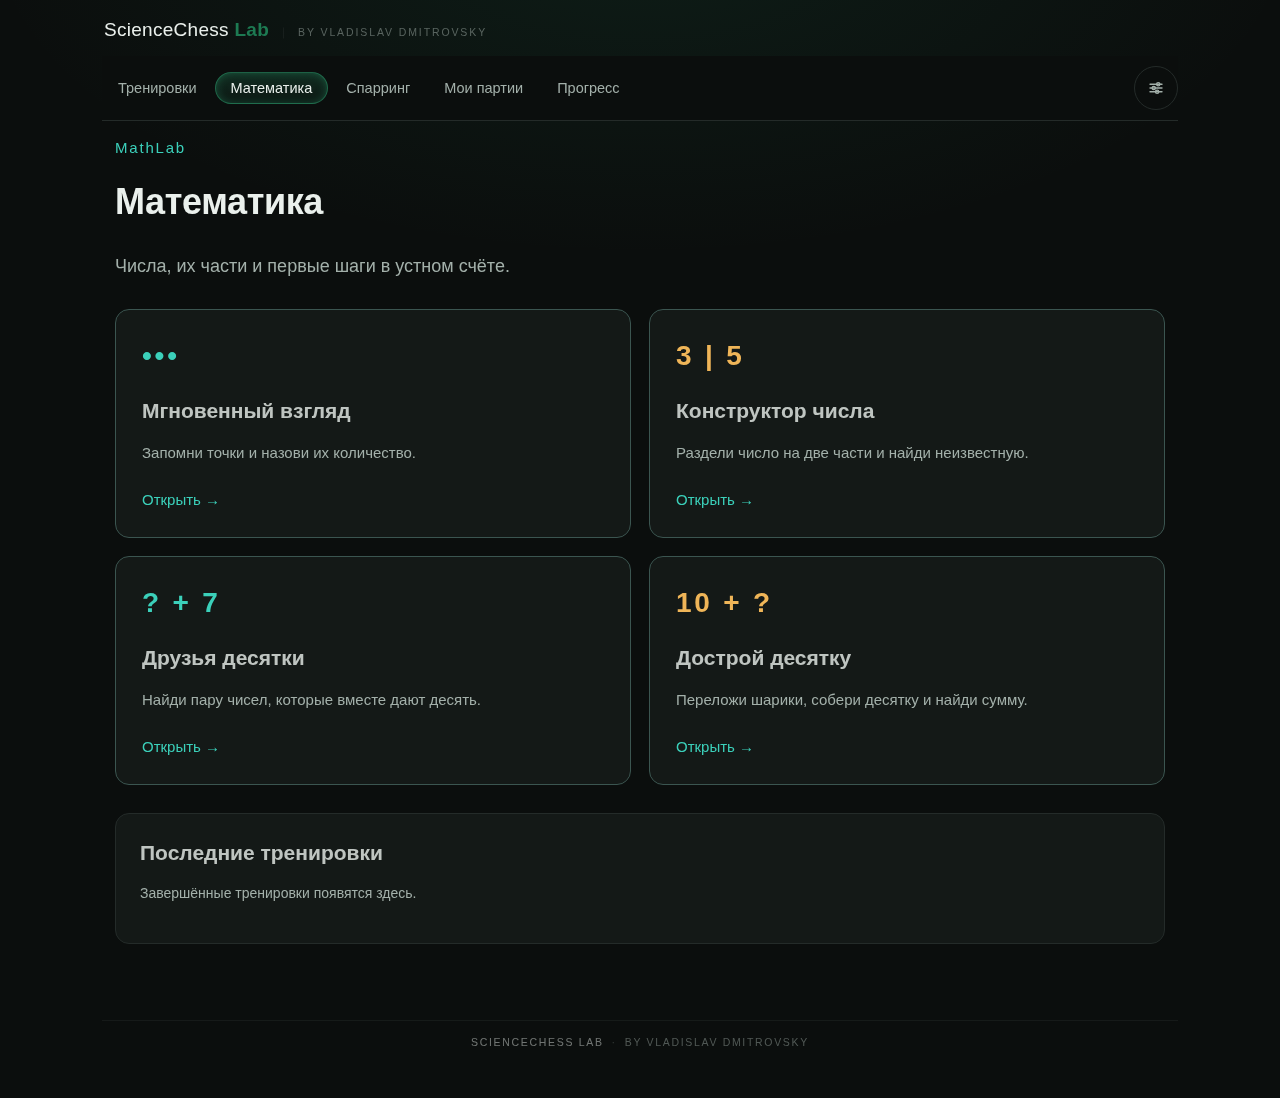
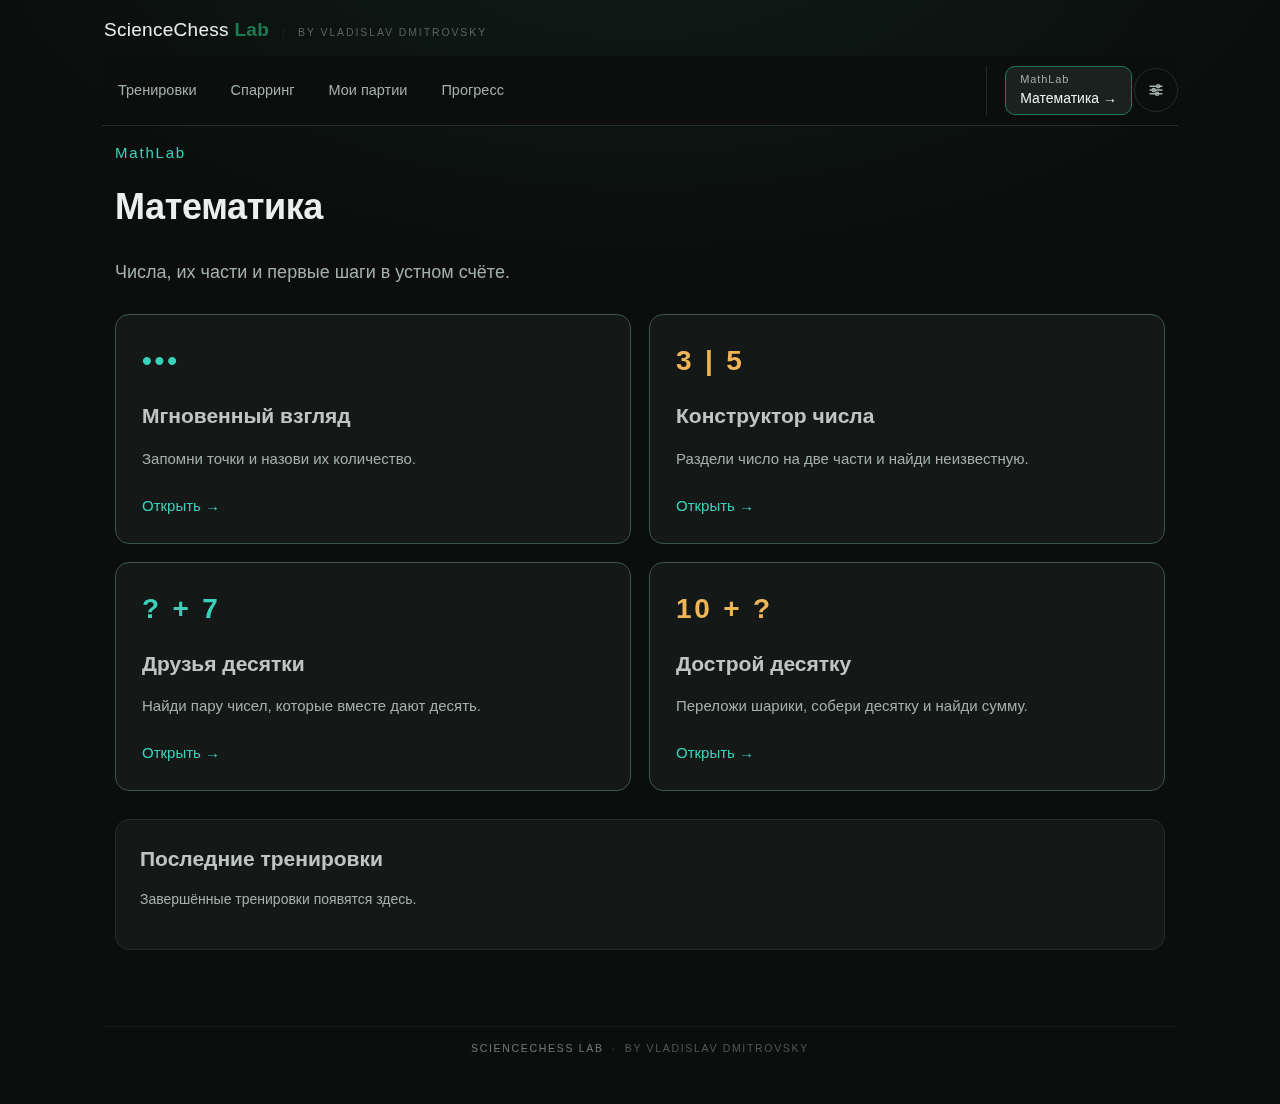
Separate MathLab entrance from chess navigation

diff --git a/src/main.ts b/src/main.ts
@@ -99,10 +99,9 @@ const MATH_TABS: Tab[] = [
 ];
 const ALL_TABS: Tab[] = [...MATH_TABS, ...TRAINING_TABS, SCRAMBLE_TAB, GAMES_TAB, DATA_TAB, SETTINGS_TAB];
 
-/** Пункты верхнего ряда: группа «Тренировки» + три самостоятельных экрана. */
+/** Шахматные разделы. MathLab — отдельный переход после этой группы. */
 const TOP_ENTRIES: Array<{ id: string; label: string; group: boolean }> = [
   { id: TRAINING_GROUP_ID, label: 'Тренировки', group: true },
-  { id: 'math', label: 'Математика', group: false },
   { id: SCRAMBLE_TAB.id, label: SCRAMBLE_TAB.label, group: false },
   { id: GAMES_TAB.id, label: GAMES_TAB.label, group: false },
   { id: DATA_TAB.id, label: DATA_TAB.label, group: false },
@@ -248,6 +247,17 @@ async function boot(): Promise<void> {
     primaryScroll.append(b);
   }
 
+  // MathLab is a separate product area, outside the scrolling chess tabs.
+  const mathPortal = el('div', { class: 'math-portal' });
+  const mathButton = el('button', {
+    class: 'math-portal-link', type: 'button', 'aria-label': 'Математика',
+  }, [el('span', { class: 'math-portal-brand', 'aria-hidden': 'true' }, ['MathLab']),
+      el('span', { class: 'math-portal-title', 'aria-hidden': 'true' }, ['Математика →'])]);
+  mathButton.addEventListener('click', () => show('math'));
+  topButtons.set('math', mathButton);
+  mathPortal.append(mathButton);
+  primaryRow.append(mathPortal);
+
   for (const t of TRAINING_TABS) {
     const b = el('button', { class: 'tab-secondary', type: 'button' }, [t.label]);
     b.addEventListener('click', () => show(t.id));
@@ -262,6 +272,13 @@ async function boot(): Promise<void> {
   settingsBtn.addEventListener('click', () => show(SETTINGS_TAB.id));
   installQuickThemePicker(settingsBtn);
   primaryRow.append(settingsBtn);
+  const compactNavigation = window.matchMedia('(max-width: 650px)');
+  const placeMathPortal = () => {
+    if (compactNavigation.matches) nav.append(mathPortal);
+    else primaryRow.insertBefore(mathPortal, settingsBtn);
+  };
+  placeMathPortal();
+  compactNavigation.addEventListener('change', placeMathPortal);
 
   window.addEventListener('hashchange', () => {
     const id = location.hash.replace('#', '');

diff --git a/src/styles.css b/src/styles.css
@@ -2387,3 +2387,15 @@ code {
 @media (prefers-reduced-motion: reduce) {
   .sn-exposure-progress.is-running .sn-time-fill { animation: none; }
 }
+
+/* Separate entrance to MathLab, following all chess sections. */
+.math-portal{flex:0 0 auto;border-left:1px solid var(--border);padding-left:18px;margin-left:14px}
+.math-portal-link{display:flex;flex-direction:column;align-items:flex-start;justify-content:center;gap:3px;min-height:48px;padding:6px 14px;border:1px solid var(--border);border-radius:10px;background:var(--panel);color:var(--fg-strong);cursor:pointer;font:inherit;text-align:left}
+.math-portal-brand{font-size:11px;letter-spacing:.08em;color:var(--fg);line-height:1.2}
+.math-portal-title{font-size:14px;line-height:1.4}
+.math-portal-link:hover,.math-portal-link.active{border-color:var(--accent,#2bb58b);background:var(--panel2)}
+.math-portal-link:focus-visible{outline:2px solid var(--accent,#2bb58b);outline-offset:3px}
+@media(max-width:650px){
+ #tabs>.math-portal{margin:0;padding:8px 0;border-left:0;border-top:1px solid var(--border);display:flex;justify-content:flex-end}
+ .math-portal-link{flex-direction:row;align-items:center;gap:12px;min-height:44px;padding:8px 14px}
+}
